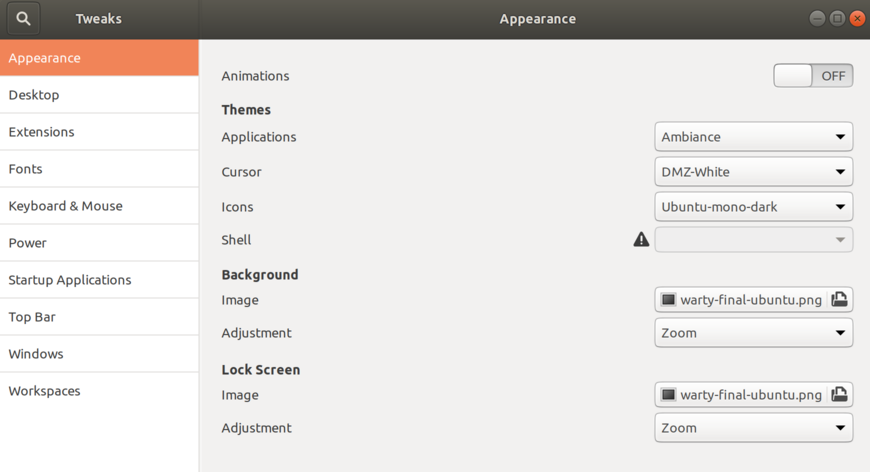
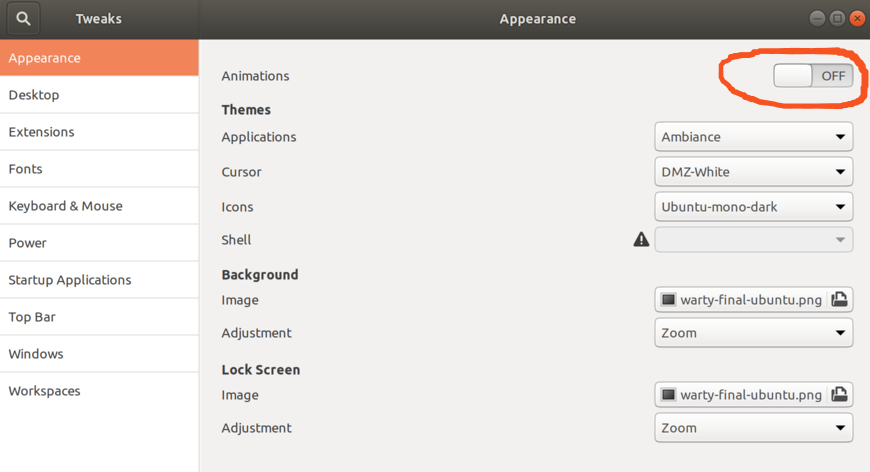
continue doc modify

Changed region(s): [[0.8069, 0.089, 1.0, 0.2373]]

diff --git a/git_use.md b/git_use.md
@@ -22,3 +22,32 @@
 > 使用 `$ git init` 可以将当前目录初始化为git repository
 
 > 使用 `$ git clone https://github.com/libgit2/libgit2` 从远程仓库初始化.
+
+
+#### Meaning of the GitHub message: push declined due to email privacy restrictions
+
+ORIGIN: [This information is from stackoberflow](https://stackoverflow.com/questions/43378060/meaning-of-the-github-message-push-declined-due-to-email-privacy-restrictions)
+
+> cause: The remote repository has been configured to disallow you pushing a commit that would reveal your personal e-mail address. For example in GitHub you have checked the Block command line pushes that expose my email checkbox to enable this.
+
+1. You can see your personal e-mail address, which is used by default for your commits in Git:
+
+    `git config --global user.email`
+
+1. Find your GitHub noreply address in your GitHub's Personal Settings → Emails. It's mentioned in the description of the Keep my email address private checkbox. Usually, it starts with a unique identifier, plus your username:
+
+    `{ID}+{username}@users.noreply.github.com`
+
+1. Change the global user e-mail address setting to be your GitHub noreply address:
+
+    `git config --global user.email {ID}+{username}@users.noreply.github.com`
+
+1. Reset the author information on your last commit:
+
+    `git commit --amend --reset-author`
+
+    If you have multiple commits with your private e-mail address, see this [answer](https://stackoverflow.com/a/25815116/146622).
+
+1. Now you can push the commit with the noreply e-mail address, and future commits will have the noreply e-mail address as well.
+
+     `git push`

diff --git a/ubuntu1804_tips.md b/ubuntu1804_tips.md
@@ -20,3 +20,5 @@
 > On the first tab Appearance there is a toggle switch
 >
 > Animations. That's it!
+
+![disable animations](imgs/disableanimation)
